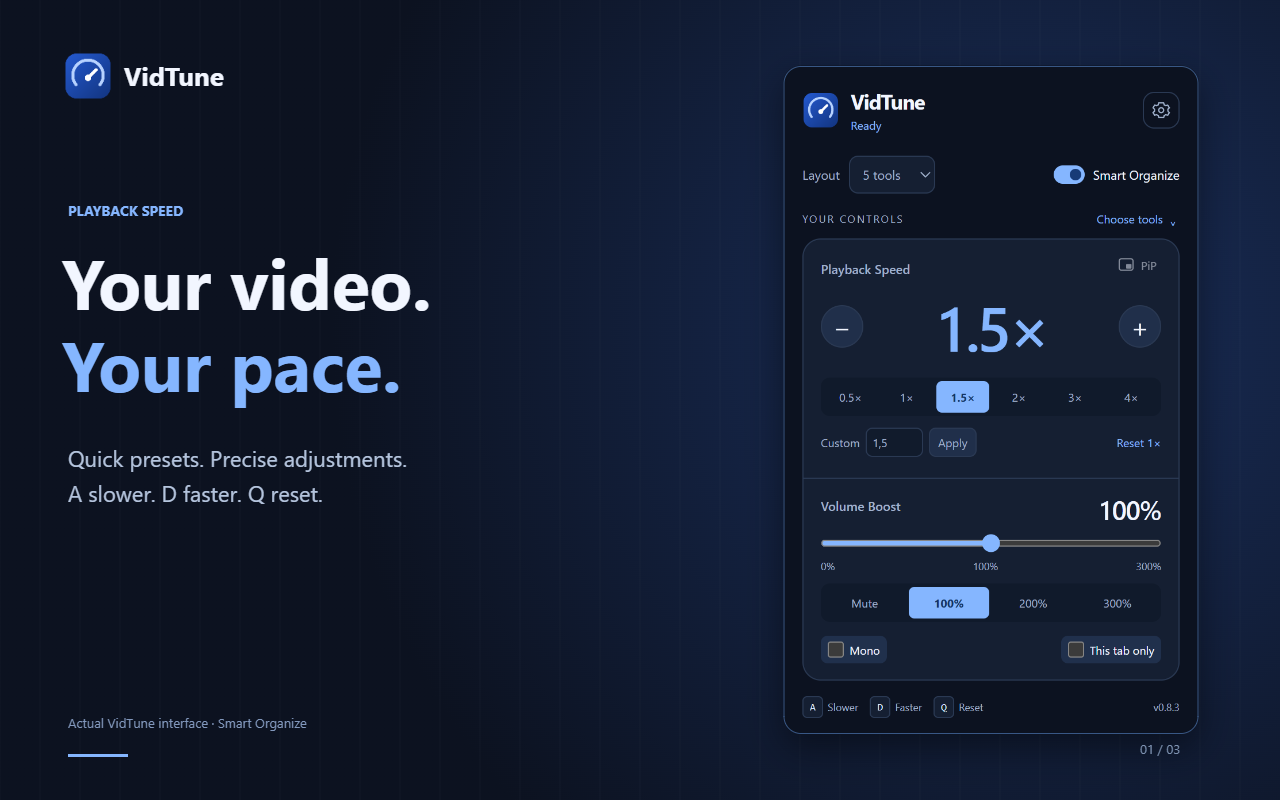
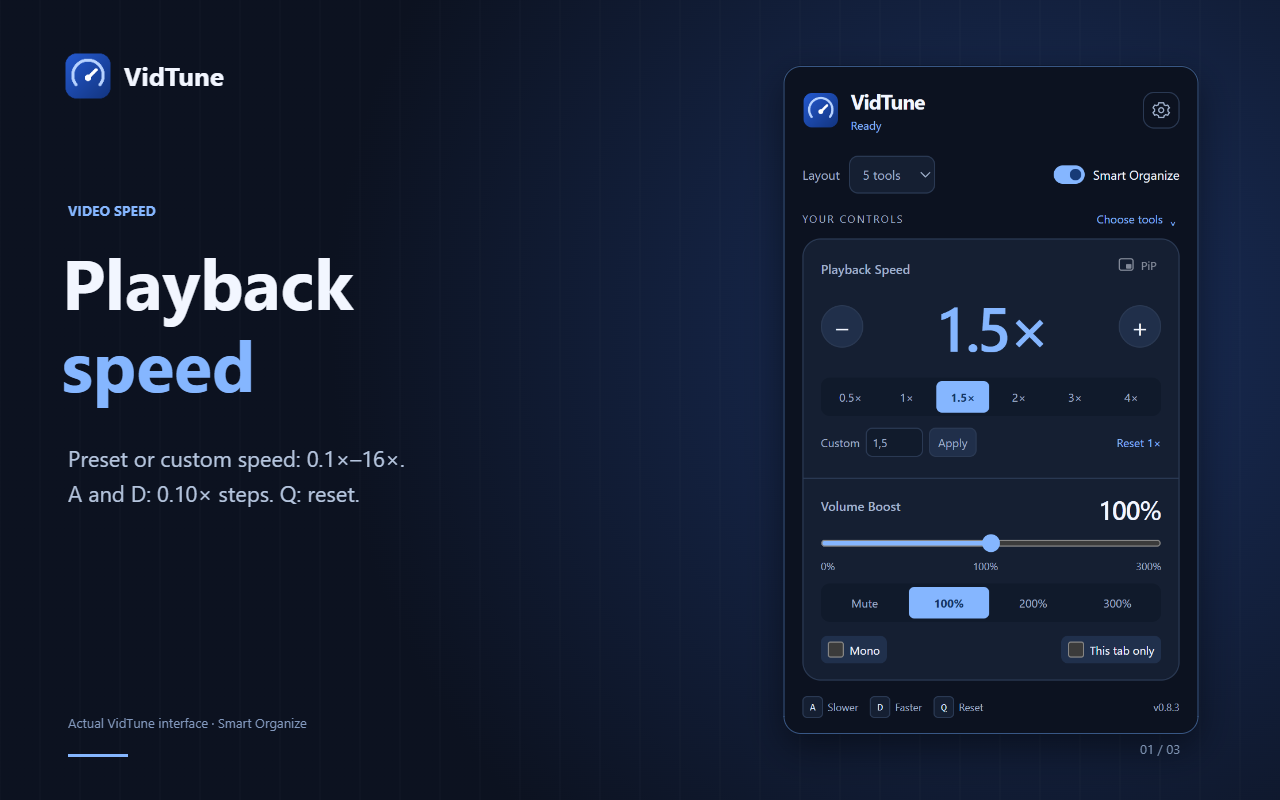
Prepare factual Firefox listing images and copy

Changed region(s): [[0.0312, 0.3125, 0.3438, 0.5], [0.0312, 0.5625, 0.3125, 0.625], [0.0625, 0.25, 0.1562, 0.2812]]

diff --git a/scripts/presentation.js b/scripts/presentation.js
@@ -90,9 +90,9 @@ try {
   await writeFile(`${output}/screenshots/settings.png`, Buffer.from(captures.settings, 'base64'));
   await driver.get(local);
   const slides = [
-    { name: '01-playback-speed', title: ['Your video.', 'Your pace.'], body: ['Quick presets. Precise adjustments.', 'A slower. D faster. Q reset.'], key: 'playback-speed', label: 'PLAYBACK SPEED' },
-    { name: '02-volume-boost', title: ['Turn it up.', 'Your way.'], body: ['Boost quiet videos up to 300%.', 'Choose a different volume for each tab.'], key: 'volume-boost', label: 'VOLUME BOOST', note: 'Boost availability depends on the video source.' },
-    { name: '03-smart-organize', title: ['Less clutter.', 'More control.'], body: ['Choose 2, 5 or 10 tools.', 'Let Smart Organize bring them together.'], key: 'layout-10', label: 'SMART ORGANIZE' }
+    { name: '01-playback-speed', title: ['Playback', 'speed'], body: ['Preset or custom speed: 0.1×–16×.', 'A and D: 0.10× steps. Q: reset.'], key: 'playback-speed', label: 'VIDEO SPEED' },
+    { name: '02-volume-boost', title: ['Volume', 'and audio'], body: ['Set volume from 0% to 300%.', 'Mono and per-tab volume are optional.'], key: 'volume-boost', label: 'AUDIO CONTROLS', note: 'Boost above 100% depends on the video source.' },
+    { name: '03-smart-organize', title: ['Layouts', 'and tools'], body: ['Choose 2, 5 or 10 controls.', 'Smart Organize groups related tools.'], key: 'layout-10', label: 'CUSTOM LAYOUT' }
   ];
   for (let index = 0; index < slides.length; index++) {
     const png = await driver.executeAsyncScript(`

diff --git a/presentation/AMO_LISTING.md b/presentation/AMO_LISTING.md
@@ -1,0 +1,45 @@
+# Firefox Add-ons listing — VidTune 0.8.3
+
+## Português (Brasil)
+
+**Nome:** VidTune — Modular Controls
+
+**Resumo:** Controle a velocidade e o volume de vídeos, use áudio mono e PiP e escolha um layout com 2, 5 ou 10 ferramentas. Atalhos A, D e Q.
+
+**Descrição:**
+
+VidTune reúne controles de reprodução em um popup compacto.
+
+- Ajuste a velocidade de 0,1× a 16× com presets, valor personalizado ou passos de 0,10×. A diminui, D aumenta e Q volta a 1×.
+- Ajuste o volume de 0% a 300% e, se quiser, use um volume diferente em cada aba. O ganho acima de 100% depende de a origem do vídeo permitir o processamento de áudio.
+- Ative áudio mono, Picture in Picture e controles opcionais para avançar ou voltar no vídeo.
+- Escolha 2, 5 ou 10 ferramentas. Smart Organize agrupa os controles relacionados.
+- Salve preferências de velocidade e volume para sites específicos.
+
+As preferências ficam no navegador. VidTune não envia dados de uso ao desenvolvedor. O acesso às páginas permite encontrar vídeos, aplicar atalhos e controlar players em quadros.
+
+## English (US)
+
+**Name:** VidTune — Modular Controls
+
+**Summary:** Control video speed and volume, use mono audio and PiP, and choose a layout with 2, 5 or 10 tools. A, D and Q shortcuts.
+
+**Description:**
+
+VidTune puts video playback controls in a compact popup.
+
+- Set speed from 0.1× to 16× with presets, a custom value or 0.10× steps. A slows down, D speeds up and Q resets to 1×.
+- Set volume from 0% to 300%, with optional independent volume for each tab. Boost above 100% depends on whether the video source permits audio processing.
+- Use mono audio, Picture in Picture and optional skip back and forward controls.
+- Choose 2, 5 or 10 tools. Smart Organize groups related controls.
+- Save speed and volume preferences for specific sites.
+
+Preferences remain in the browser. VidTune does not send usage data to the developer. Access to pages lets it find videos, apply shortcuts and control players in frames.
+
+## Screenshots
+
+1. `01-playback-speed.png` — presets, custom speed and A/D/Q shortcuts.
+2. `02-volume-boost.png` — volume slider, mono audio and per-tab volume.
+3. `03-smart-organize.png` — ten-tool layout grouped by purpose.
+
+The images show actual extension UI captured with a local HTML5 video fixture. They are 1280 × 800 pixels, with short feature explanations next to the UI. A video is optional and is omitted from this submission.

diff --git a/presentation/README.md b/presentation/README.md
@@ -6,8 +6,8 @@ English presentation images, 1280 × 800 pixels:
 - `02-volume-boost.png`: volume boost and independent volume for the current tab.
 - `03-smart-organize.png`: the ten-tool Smart Organize layout.
 
-The `screenshots/` folder contains unedited captures of the running extension, including the two-tool layout and Settings. Screenshots use a controlled local HTML5 media fixture. The surrounding presentation artwork is separate from the extension UI.
+The `screenshots/` folder contains unedited captures of the running extension, including the two-tool layout and Settings. Screenshots use a controlled local HTML5 media fixture. The 1280 × 800 images pair these real captures with direct feature explanations for the public Firefox listing.
 
 The original scalable icon is `../icons/icon.svg`, with PNG sizes from 16 to 256 pixels. Recreate these assets with `node scripts/presentation.js` after `npm ci` on a machine with Microsoft Edge installed. Generation uses an invisible test browser.
 
-Mozilla's unlisted developer page does not expose the public listing's image gallery. Keep these files for private sharing or a future public listing; do not switch distribution to listed just to upload screenshots. No video was requested for this release.
+Upload the three presentation images to the public Firefox listing in numbered order. A video is optional; the images already explain the core controls directly.

diff --git a/README.md b/README.md
@@ -1,6 +1,6 @@
 # VidTune
 
-**VidTune — Modular Controls** is a lightweight browser extension under development. The `feature/modular-popup` branch contains version 0.8.2, with a configurable popup and mono audio.
+**VidTune — Modular Controls** is a lightweight browser extension for video playback controls. The `feature/modular-popup` branch contains version 0.8.3, with a configurable popup and mono audio.
 
 ## Modular popup
 
